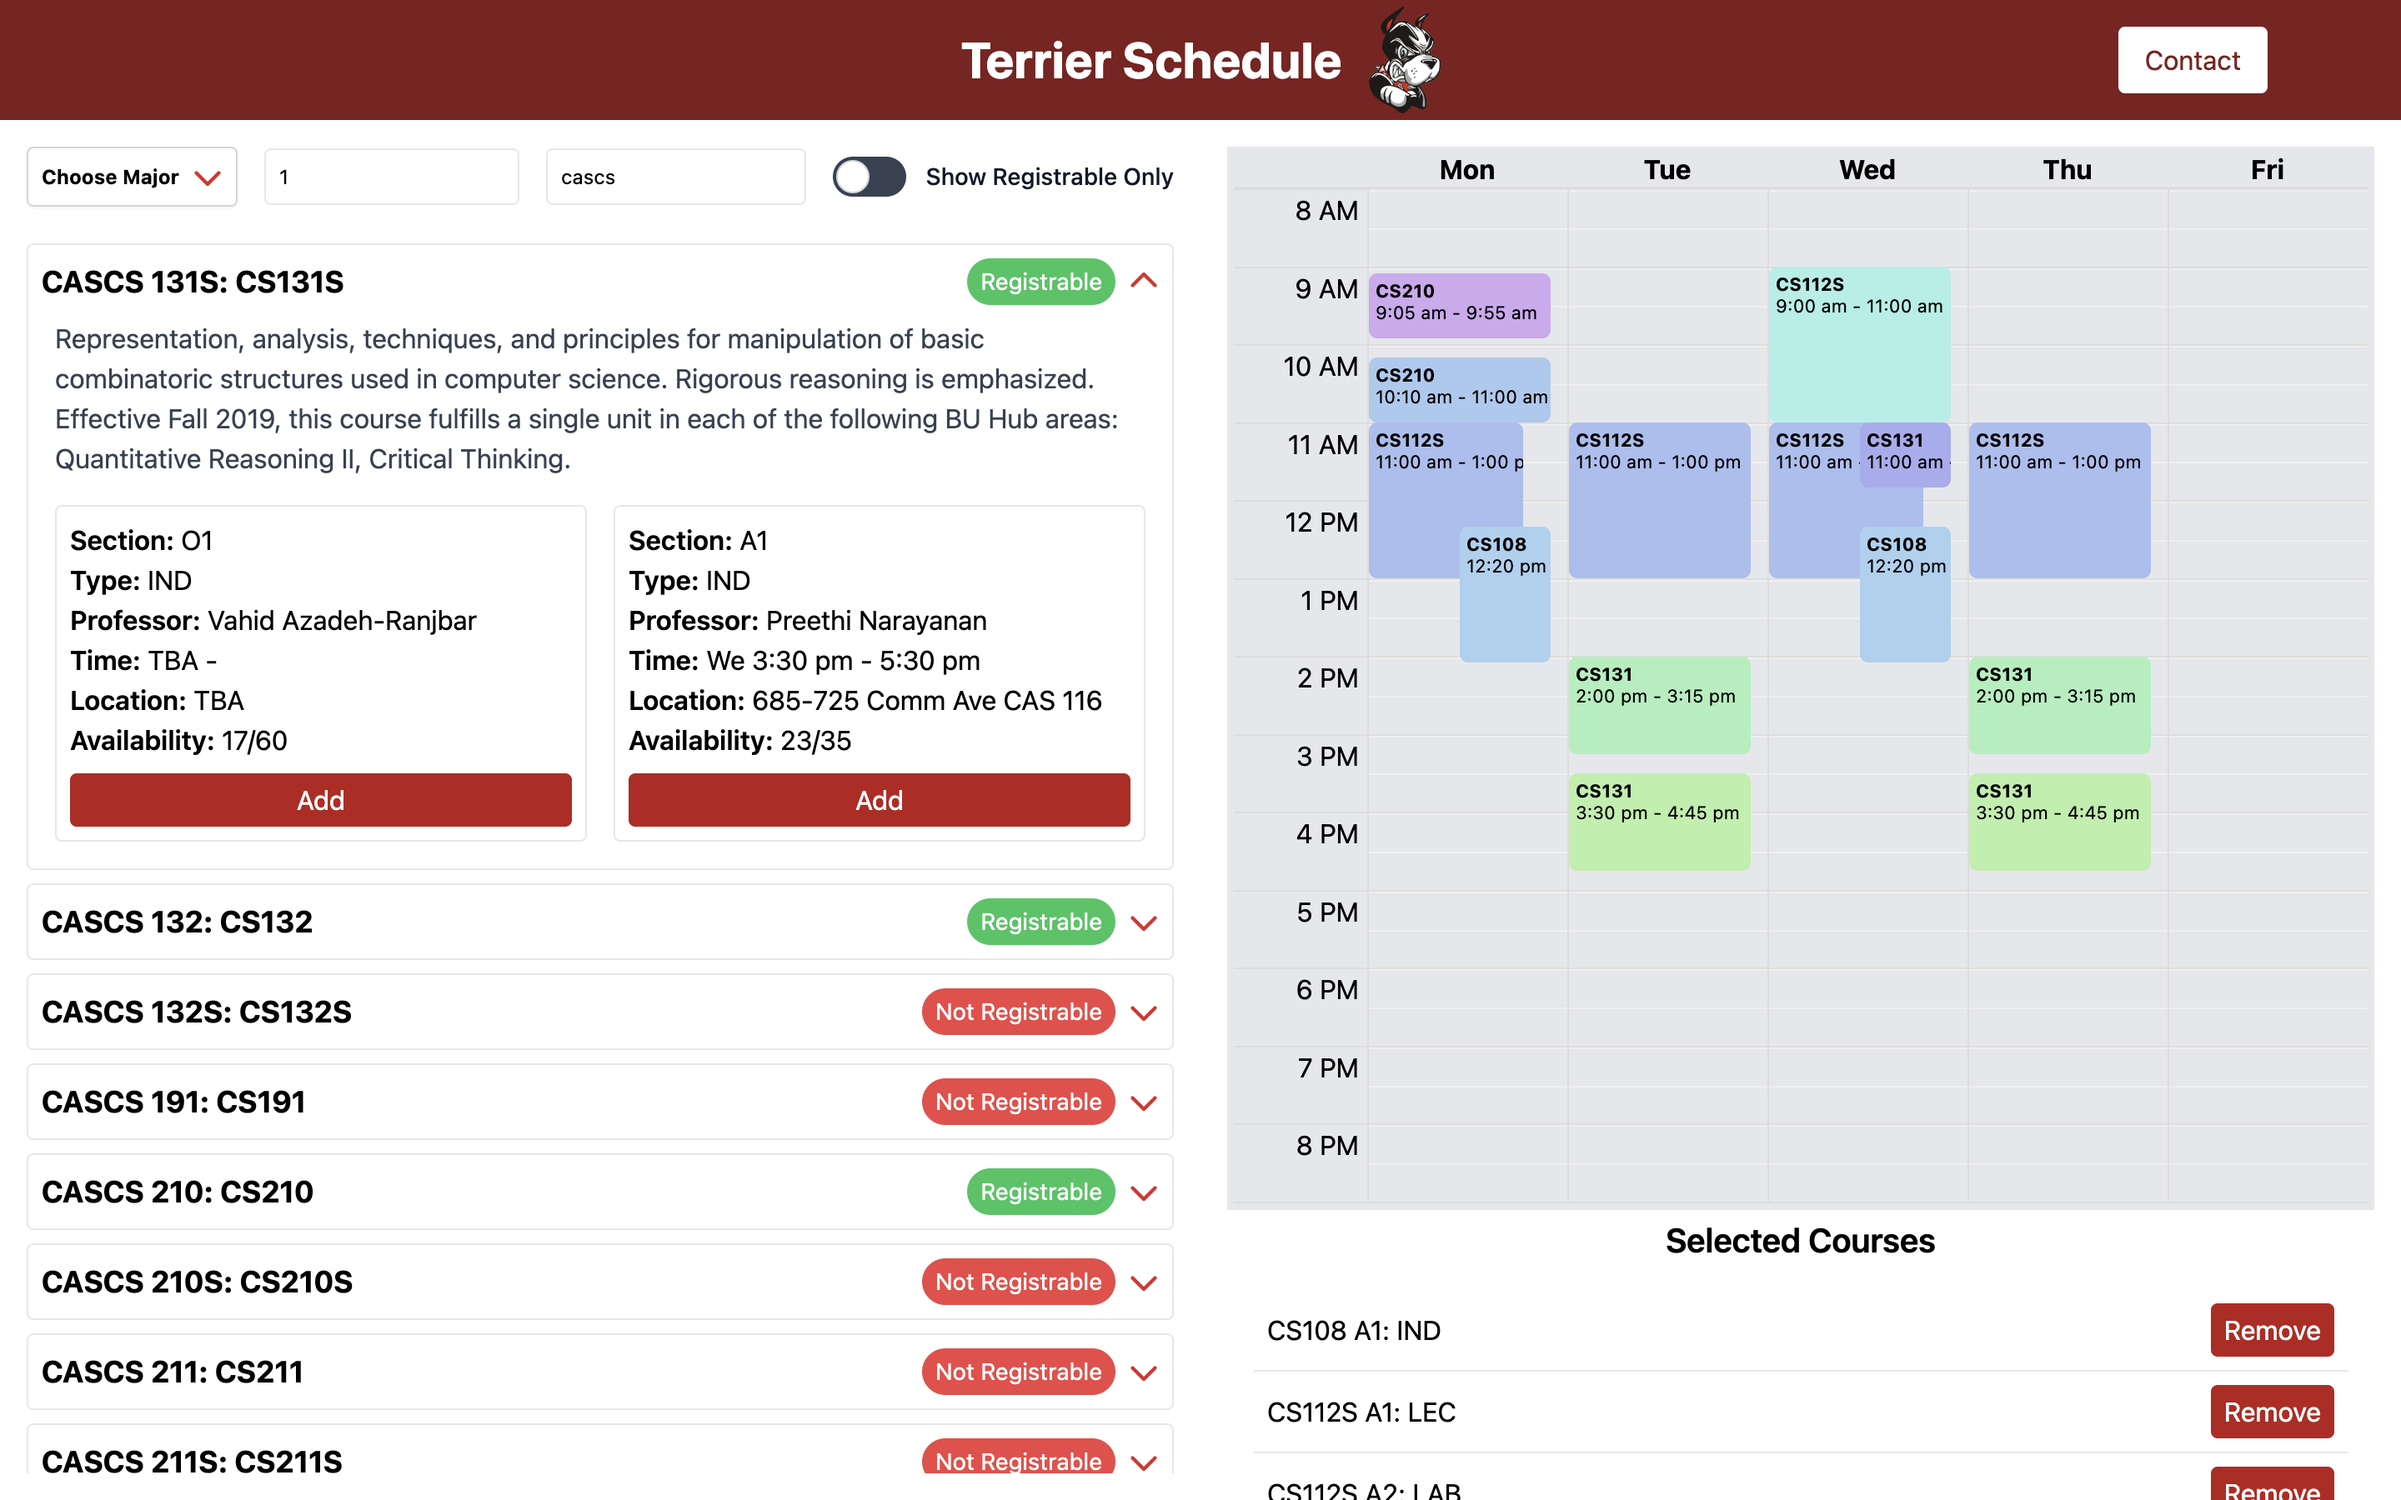
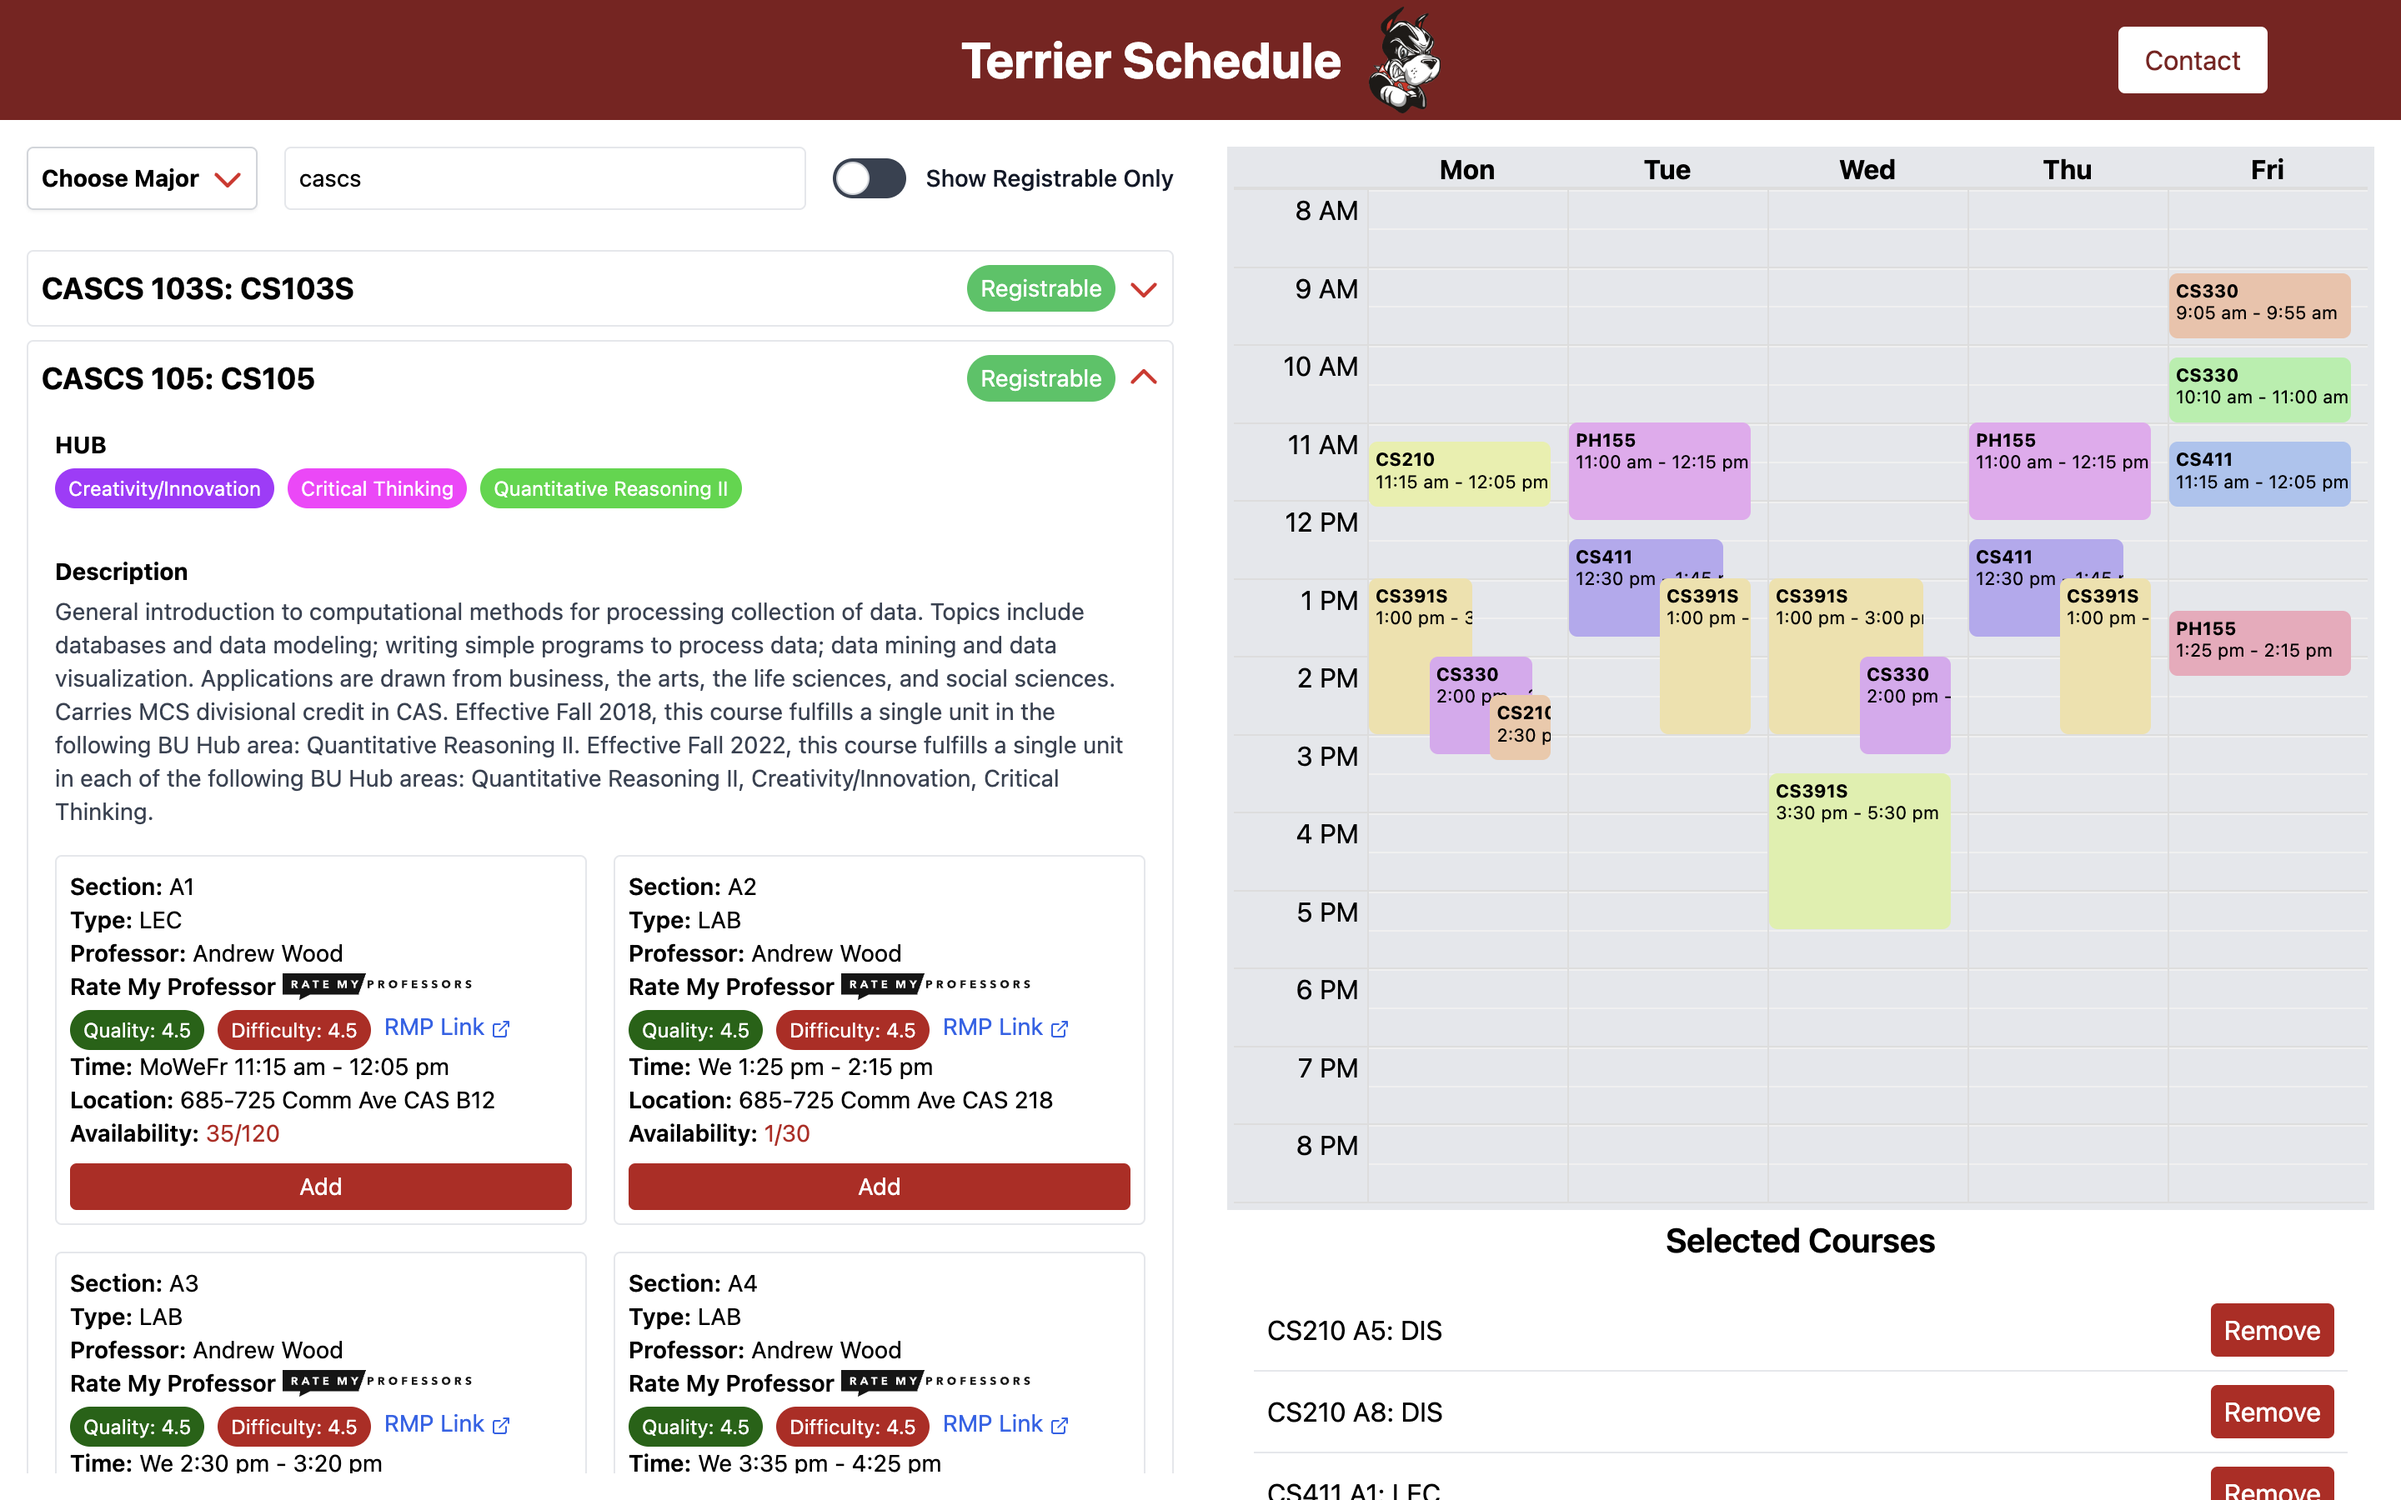
update picture and readme"

diff --git a/frontend/src/components/SectionItem.jsx b/frontend/src/components/SectionItem.jsx
@@ -37,11 +37,11 @@ function SectionItem({ section }) {
     if (score === null || score === undefined) return '#888888';
     if (!isDifficulty) {
       if (score > 3.5) return '#006400';
-      if (score >= 2.5) return '#FFA500';
+      if (score >= 2.5) return '#ff9c00';
       return '#B91C1C';
     } else {
       if (score < 2.5) return '#006400';
-      if (score <= 3.5) return '#FFA500';
+      if (score <= 3.5) return '#ff9c00';
       return '#B91C1C';
     }
   };

diff --git a/frontend/src/App.jsx b/frontend/src/App.jsx
@@ -1,4 +1,4 @@
-import React, { useState } from 'react';
+import { useState } from 'react';
 import CourseList from './components/CourseList';
 import { useSchedule } from './context/ScheduleContext';
 import rhett from '../assets/rhett.png';

diff --git a/README.md b/README.md
@@ -9,6 +9,8 @@ Terrier Schedule is a web application designed to help Boston University student
 - Browse available courses
 - View detailed course information
 - Add courses to your schedule
+- Rate My Professor quality and difficulty for all professors
+- HUB tags for all courses
 - Visualize your weekly schedule
 - Filter courses by major, course number, and other criteria
 
